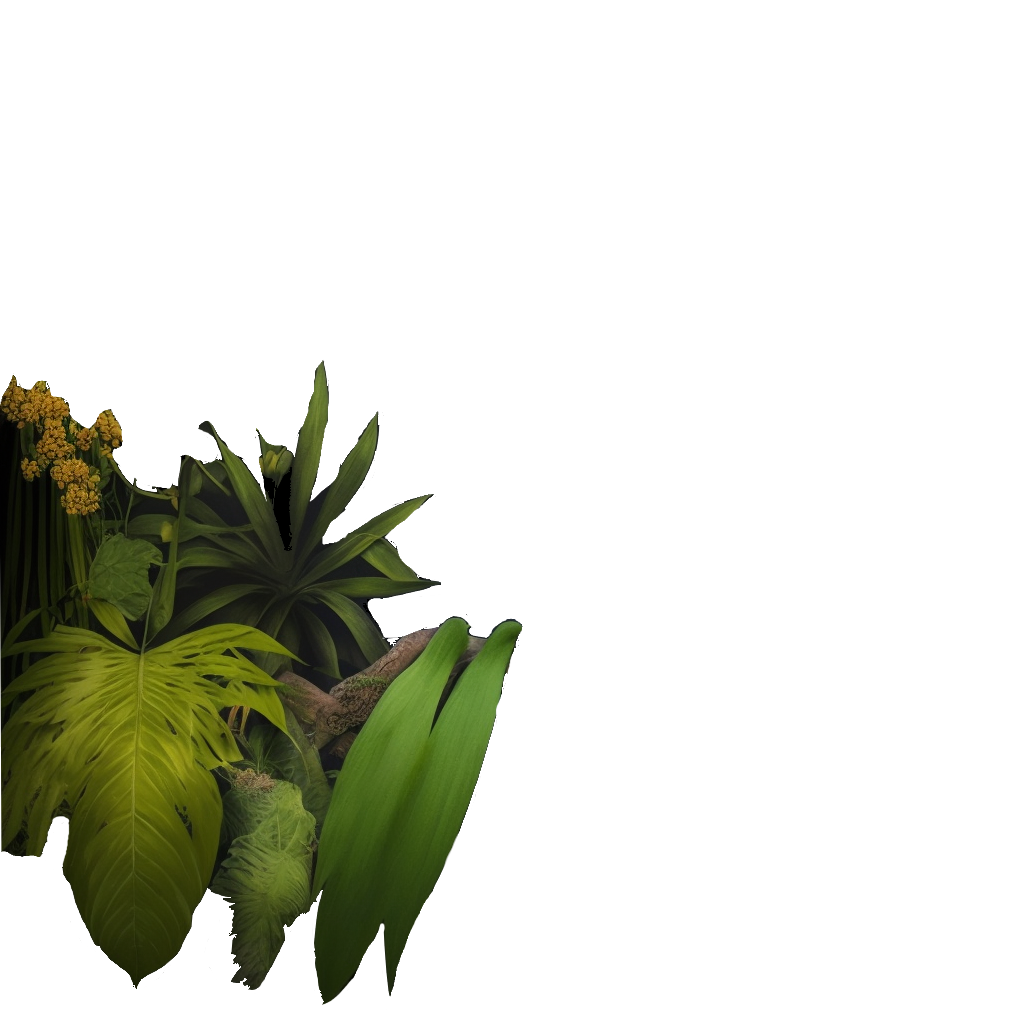
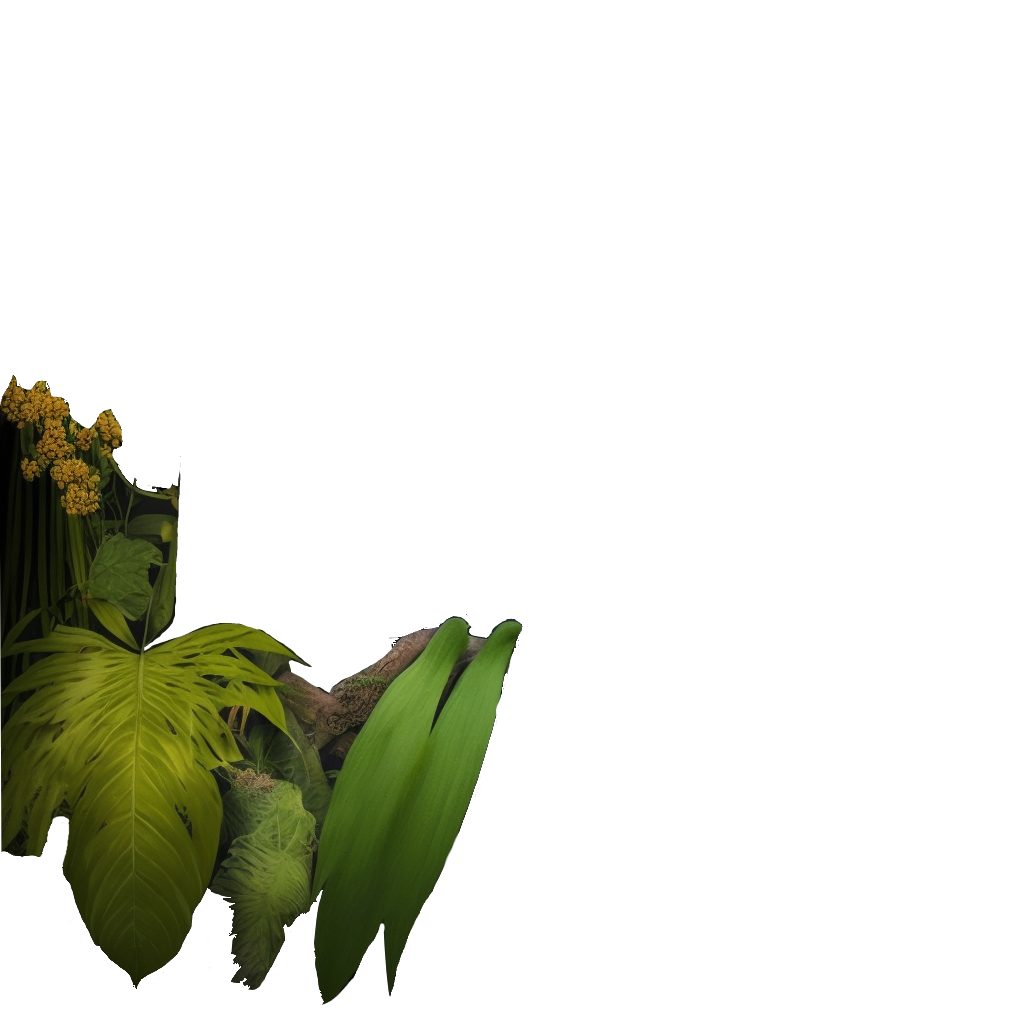
done?

Changed region(s): [[0.1562, 0.3438, 0.4375, 0.6875]]

diff --git a/src/App.tsx b/src/App.tsx
@@ -5,6 +5,7 @@ import layer2 from './layers/layer2.png'
 import layer3 from './layers/layer3.png'
 import layer4 from './layers/layer4.png'
 import layer5 from './layers/layer5.png'
+import layer6 from './layers/layer6.png'
 import Particles from 'react-particles'
 import { loadFull } from 'tsparticles'
 import type { Engine } from 'tsparticles-engine'
@@ -91,6 +92,12 @@ function App() {
         </div>
         <div className="image bottom plant-container">
           <img src={layer5} className="plant" />
+        </div>
+        <div
+          className="image bottom plant-container"
+          style={{ bottom: -18, zIndex: 0, overflow: 'hidden' }}
+        >
+          <img src={layer6} className="plant" />
         </div>
         <Particles
           id="tsparticles"

diff --git a/src/App.css b/src/App.css
@@ -57,9 +57,6 @@
 .line > svg {
   margin-right: 10px;
 }
-.line > div {
-  flex: 1 0 auto;
-}
 
 /* Plant animations */
 .plant-container {
@@ -81,6 +78,6 @@ html * {
 }
 
 a {
-  color: goldenrod;
+  color: #ba8003;
   text-decoration: none;
 }
